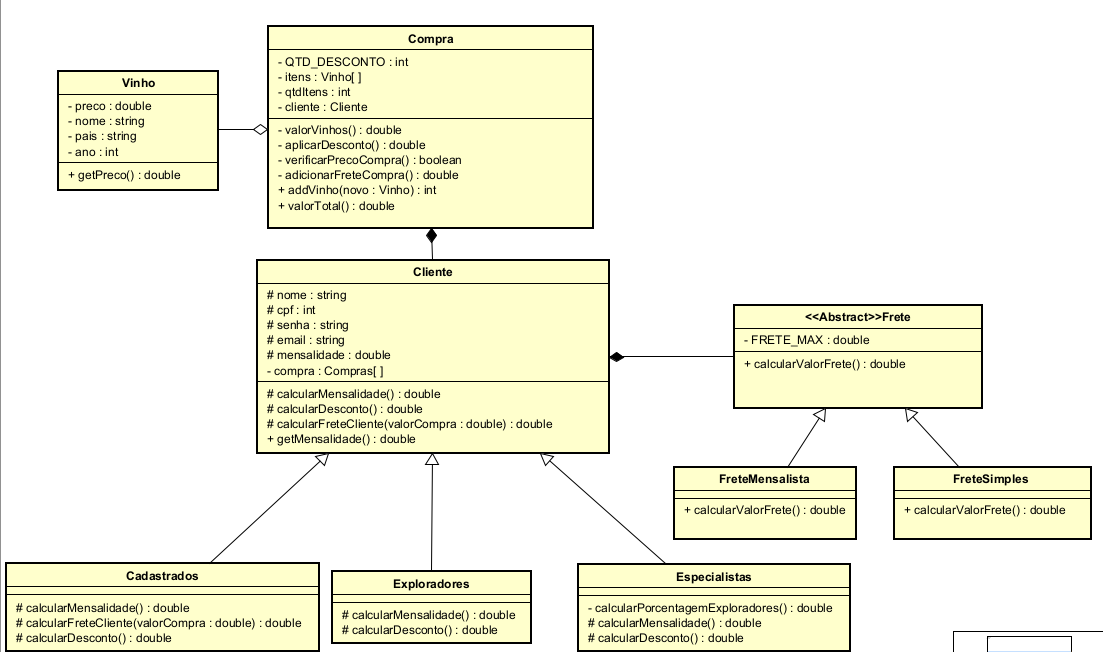
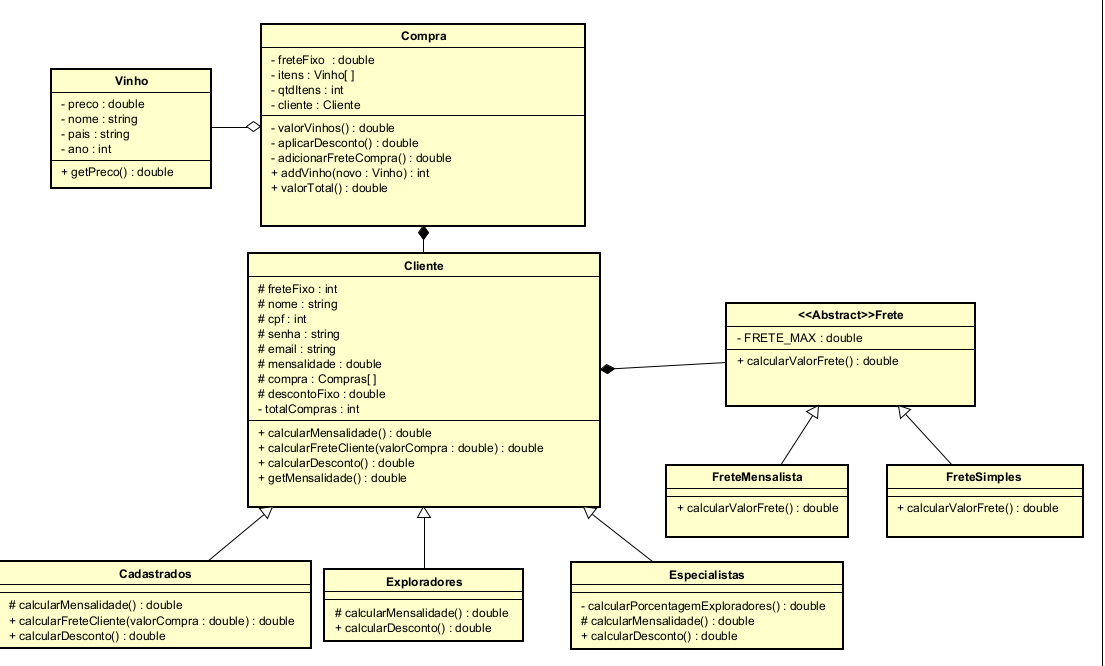
att

Changed region(s): [[0.0, 0.0307, 1.0, 1.0], [0.8939, 0.9509, 0.9248, 1.0], [0.9864, 0.9509, 1.0, 0.9816]]

diff --git a/prog-modular-exRevisaoProva2/adega/src/Compra.java b/prog-modular-exRevisaoProva2/adega/src/Compra.java
@@ -1,9 +1,15 @@
 public class Compra {
 
     static final private double FRETE_FIXO = 12;
-    static final private int QTD_DESCONTO = 10;
     private Vinho[] itens;
     private int qtdItens;
+    private Cliente cliente = new Cliente();
+
+    public Compra(Vinho[] itens, Cliente cliente) {
+        this.itens = itens;
+        this.qtdItens = itens.length;
+        this.cliente = cliente;
+    }
 
     private double valorVinhos(){
 
@@ -22,5 +28,18 @@ public class Compra {
         }
         return soma;
     }
-    
+
+
+    private double aplicarDesconto(){
+        double desconto = cliente.calcularDesconto();
+        double valorSemDesconto = valorVinhos();
+        double valorComDesconto = valorSemDesconto - (valorSemDesconto * desconto);
+        return valorComDesconto;
+    }
+
+    private double adicionarFreteCompra(){
+        double valorComDesconto = aplicarDesconto();
+        double frete = cliente.calcularFrete(valorComDesconto);
+        return frete;
+    }
 }

diff --git a/prog-modular-exRevisaoProva2/adega/src/Cliente.java b/prog-modular-exRevisaoProva2/adega/src/Cliente.java
@@ -1,0 +1,19 @@
+public class Cliente {
+
+    protected double descontoFixo;
+    protected double frete = 12;
+    int totalCompras;
+    protected Compra[] compras = new Compra[totalCompras];
+
+
+    public double calcularDesconto(){
+        return 0;
+    }
+
+    public double calcularFrete(double valorCompra){
+        if(valorCompra <= 100){
+            frete = 10;
+        }
+        return frete;
+    }
+}

diff --git a/prog-modular-exRevisaoProva2/adega/src/Especialista.java b/prog-modular-exRevisaoProva2/adega/src/Especialista.java
@@ -1,0 +1,12 @@
+public class Especialista extends Cliente{
+
+    @Override
+    public double calcularDesconto(){
+        descontoFixo = 0.15;
+        if(this.compras.length >= 10){
+            descontoFixo = 0.20;
+        }
+        return descontoFixo;
+    }
+    
+}

diff --git a/prog-modular-exRevisaoProva2/adega/src/Vinho.java b/prog-modular-exRevisaoProva2/adega/src/Vinho.java
@@ -1,3 +1,13 @@
 public class Vinho {
+
+    private double preco;
+
+    public double getPreco() {
+        return preco;
+    }
+
+    public void setPreco(double preco) {
+        this.preco = preco;
+    }
     
 }
